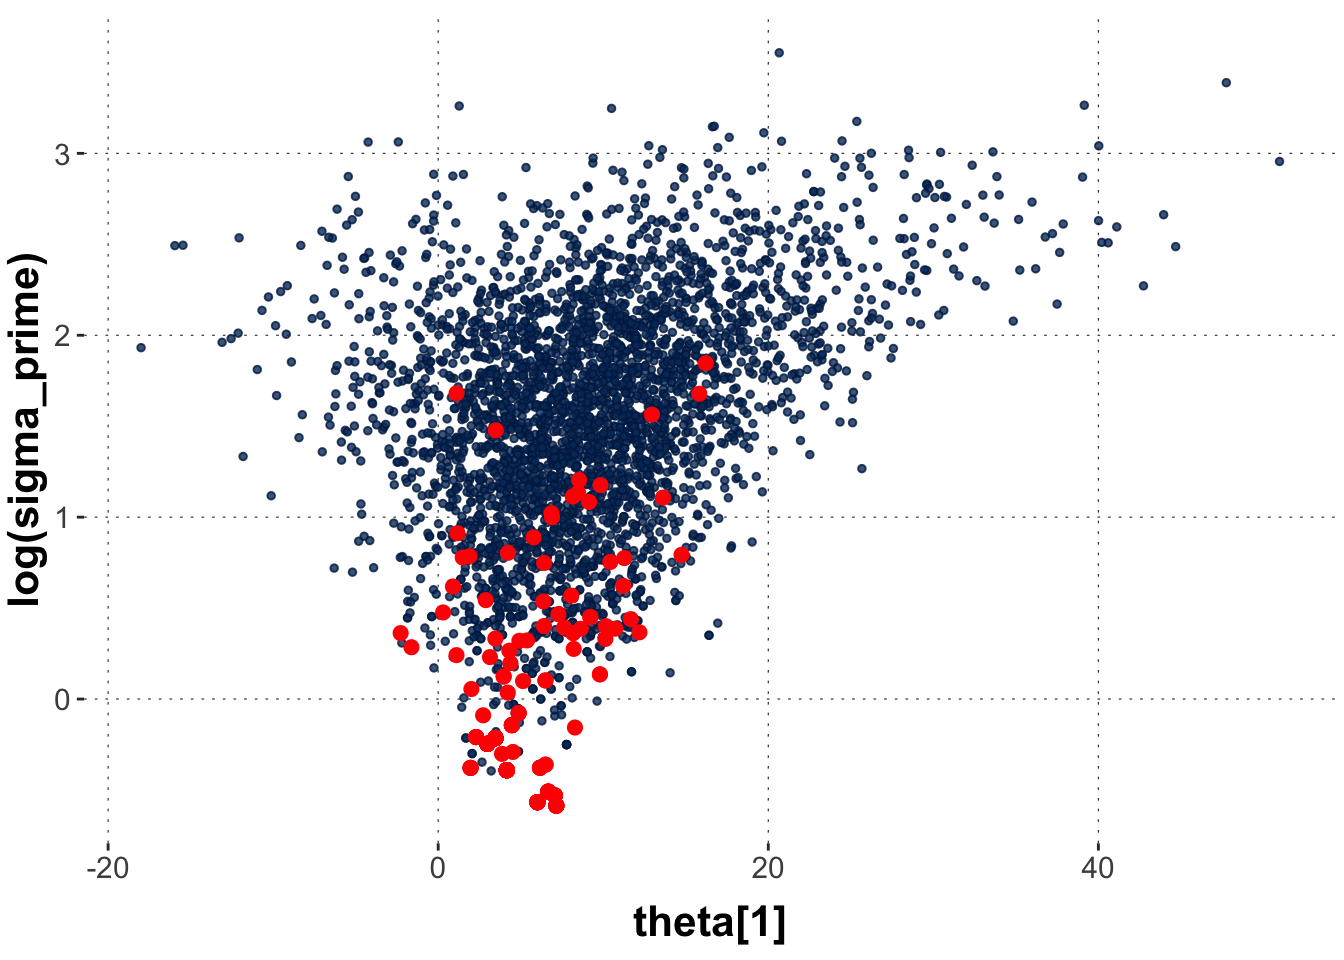
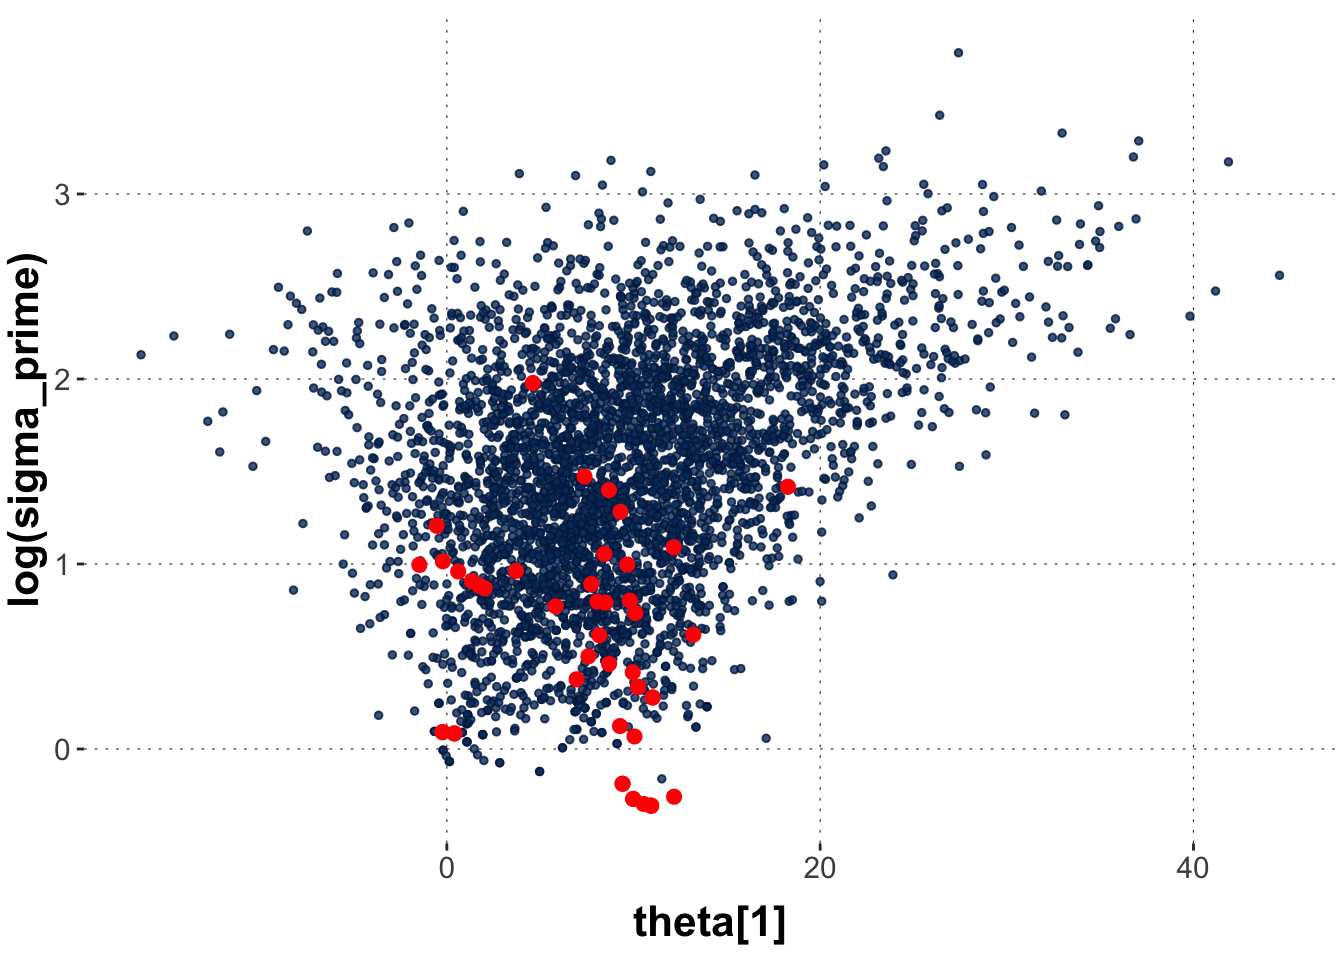
Built site for gh-pages

diff --git a/practice-sheets/04b-divergences.html b/practice-sheets/04b-divergences.html
@@ -498,7 +498,7 @@ pre > code.sourceCode > span > a:first-child::before { text-decoration: underlin
 </section>
 <section id="the-eight-schools-example" class="level1">
 <h1>The “eight schools” example</h1>
-<p>The “eight schools” example (going back to Rubin ([1981])(https://www.jstor.org/stable/1164617)) is an often used simple illustration of a <strong>hierarchical model</strong>. There are <span class="math inline">\(N =8\)</span> pairs of observations, each pair from a different school. For each school <span class="math inline">\(i\)</span>, we have an estimated effect size <span class="math inline">\(y_i\)</span> and an estimated standard error <span class="math inline">\(\sigma_i\)</span> for the reported effect size. (The experiments conducted at each school which gave us these pairs investigated whether short-term coaching has a effect on SAT-V scores, but this is not important for our purposes here.)</p>
+<p>The “eight schools” example (going back to Rubin (<a href="https://www.jstor.org/stable/1164617">1981</a>) is an often used simple illustration of a <strong>hierarchical model</strong>. There are <span class="math inline">\(N =8\)</span> pairs of observations, each pair from a different school. For each school <span class="math inline">\(i\)</span>, we have an estimated effect size <span class="math inline">\(y_i\)</span> and an estimated standard error <span class="math inline">\(\sigma_i\)</span> for the reported effect size. (The experiments conducted at each school which gave us these pairs investigated whether short-term coaching has a effect on SAT-V scores, but this is not important for our purposes here.)</p>
 <div class="cell">
 <details open="">
 <summary>Toggle code</summary>
@@ -563,7 +563,7 @@ y_i &amp; \sim \mathcal{N}(\theta_i, \sigma_i) \\
 <div class="sourceCode cell-code" id="cb5"><pre class="sourceCode r code-with-copy"><code class="sourceCode r"><span id="cb5-1"><a href="#cb5-1" aria-hidden="true" tabindex="-1"></a>rstan<span class="sc">::</span><span class="fu">get_num_divergent</span>(stan_fit_8schoolsC)</span></code><button title="Copy to Clipboard" class="code-copy-button"><i class="bi"></i></button></pre></div>
 </details>
 <div class="cell-output cell-output-stdout">
-<pre><code>[1] 223</code></pre>
+<pre><code>[1] 48</code></pre>
 </div>
 </div>
 <p>Let’s go explore these divergent transitions using <code>shinystan</code>. Execute the command below, go to the tab “Explore” in the Shiny App, select “Bivariate” and explore plots of <span class="math inline">\(\sigma'\)</span> against <span class="math inline">\(\theta_i\)</span> for different <span class="math inline">\(i\)</span>. Points that experienced divergent transitions are shown in red.</p>
@@ -673,7 +673,8 @@ y_i &amp; \sim \mathcal{N}(\theta_i, \sigma_i) \\
 </div>
 <section id="why-is-non-central-paramterization-better" class="level2">
 <h2 class="anchored" data-anchor-id="why-is-non-central-paramterization-better">Why is non-central paramterization better?</h2>
-<p>To understand (intuitively) why is non-central paramterization more resilient against divergent, first recall the reason for the divergencies in the first model. Inside the funnel, so to speak, the variance of “good” <span class="math inline">\(\theta_i\)</span> values were much smaller than outside of it. So, the sampler was not able to to flexibly accommodate differences in changes to <span class="math inline">\(\theta_i\)</span> parameters as <span class="math inline">\(\sigma'\)</span> changed. The non-central parameterization overcomes exactly this problem, because it decouples <span class="math inline">\(\sigma'\)</span> and <span class="math inline">\(theta_i\)</span> via an additional parameter <span class="math inline">\(\eta_i\)</span>.</p>
+<p>To understand (intuitively) why is non-central paramterization more resilient against divergent, first recall the reason for the divergencies in the first model. Inside the funnel, so to speak, the variance of “good” <span class="math inline">\(\theta_i\)</span> values were much smaller than outside of it. So, the sampler was not able to to flexibly accommodate differences in changes to <span class="math inline">\(\theta_i\)</span> parameters as <span class="math inline">\(\sigma'\)</span> changed. The non-central parameterization overcomes exactly this problem, because it decouples <span class="math inline">\(\sigma'\)</span> and <span class="math inline">\(\theta_i\)</span> via an additional parameter <span class="math inline">\(\eta_i\)</span>.</p>
+<p>A heuristic way of seeing the crucial difference between models is that in the first (central parameterization) model, the distribution from which latent parameters are sampled depends itself on the value of sampled latent parameters, whereas in the second (non-central parameterization) model the distributions from which each latent parameter is sampled are fixed, i.e., independent from values of other parameters. Sampling from the latter is therefore easier to optimize.</p>
 </section>
 <section id="why-care-about-divergent-transitions" class="level2">
 <h2 class="anchored" data-anchor-id="why-care-about-divergent-transitions">Why care about divergent transitions?</h2>
